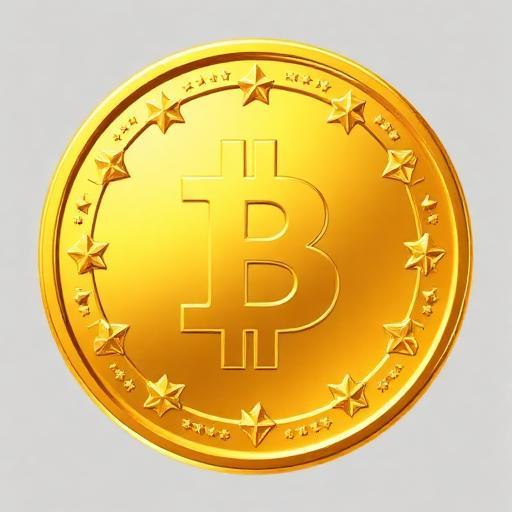
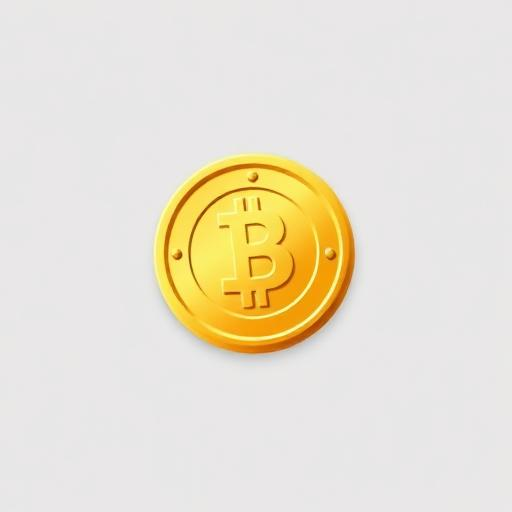
Changes

diff --git a/src/components/CurrencyIcons.tsx b/src/components/CurrencyIcons.tsx
@@ -1,0 +1,79 @@
+import { cn } from "@/lib/utils";
+
+interface IconProps extends React.SVGProps<SVGSVGElement> {
+  className?: string;
+}
+
+export const CoinIcon = ({ className, ...props }: IconProps) => {
+  return (
+    <svg
+      viewBox="0 0 64 64"
+      aria-hidden="true"
+      className={cn("inline-block", className)}
+      {...props}
+    >
+      <defs>
+        <radialGradient id="coinGradient" cx="50%" cy="25%" r="75%">
+          <stop offset="0%" stopColor="hsl(var(--coin-gold-light))" />
+          <stop offset="45%" stopColor="hsl(var(--coin-gold))" />
+          <stop offset="100%" stopColor="hsl(var(--coin-gold))" />
+        </radialGradient>
+      </defs>
+      {/* Outer coin */}
+      <circle cx="32" cy="32" r="28" fill="url(#coinGradient)" />
+      {/* Inner ring */}
+      <circle
+        cx="32"
+        cy="32"
+        r="21"
+        fill="none"
+        stroke="hsl(var(--coin-gold-light))"
+        strokeWidth="2"
+      />
+      {/* Center */}
+      <circle
+        cx="32"
+        cy="32"
+        r="14"
+        fill="hsl(var(--coin-gold-light))"
+        fillOpacity={0.5}
+      />
+      {/* Simple currency mark */}
+      <path
+        d="M30 22h4c3.5 0 6 2.1 6 5.5S37.5 33 34 33h-4v9h-4V22h4Zm0 7h3.5c1.4 0 2.5-.8 2.5-1.9S34.9 25 33.5 25H30v4Z"
+        fill="hsl(var(--coin-gold))"
+      />
+    </svg>
+  );
+};
+
+export const DiamondIcon = ({ className, ...props }: IconProps) => {
+  return (
+    <svg
+      viewBox="0 0 64 64"
+      aria-hidden="true"
+      className={cn("inline-block", className)}
+      {...props}
+    >
+      <defs>
+        <linearGradient id="diamondGradient" x1="0%" y1="0%" x2="100%" y2="100%">
+          <stop offset="0%" stopColor="hsl(var(--diamond-white))" />
+          <stop offset="40%" stopColor="hsl(var(--diamond-blue))" />
+          <stop offset="100%" stopColor="hsl(var(--diamond-blue))" />
+        </linearGradient>
+      </defs>
+      {/* Main diamond shape */}
+      <polygon
+        points="8,24 20,8 44,8 56,24 32,56"
+        fill="url(#diamondGradient)"
+      />
+      {/* Top facets */}
+      <polygon points="20,8 32,24 44,8" fill="hsl(var(--diamond-white))" fillOpacity={0.8} />
+      <polygon points="8,24 24,24 20,8" fill="hsl(var(--diamond-blue))" fillOpacity={0.7} />
+      <polygon points="56,24 44,8 40,24" fill="hsl(var(--diamond-blue))" fillOpacity={0.7} />
+      {/* Bottom facets */}
+      <polygon points="24,24 32,56 8,24" fill="hsl(var(--diamond-blue))" fillOpacity={0.9} />
+      <polygon points="40,24 56,24 32,56" fill="hsl(var(--diamond-blue))" fillOpacity={0.9} />
+    </svg>
+  );
+};

diff --git a/src/pages/Profile.tsx b/src/pages/Profile.tsx
@@ -3,8 +3,7 @@ import { useNavigate } from "react-router-dom";
 import BottomNav from "@/components/BottomNav";
 import { Button } from "@/components/ui/button";
 import { Card } from "@/components/ui/card";
-import coinIcon from "@/assets/coin-icon.png";
-import diamondIcon from "@/assets/diamond-icon.png";
+import { CoinIcon, DiamondIcon } from "@/components/CurrencyIcons";
 
 const Profile = () => {
   const navigate = useNavigate();
@@ -15,8 +14,8 @@ const Profile = () => {
   ];
 
   const stats = [
-    { label: "钻石", value: "2,580", iconSrc: diamondIcon },
-    { label: "金币", value: "1,268", iconSrc: coinIcon },
+    { label: "钻石", value: "2,580", type: "diamond" as const },
+    { label: "金币", value: "1,268", type: "coin" as const },
   ];
 
   return (
@@ -38,7 +37,11 @@ const Profile = () => {
             return (
               <button key={stat.label} className="flex-1 bg-white/10 backdrop-blur-sm rounded-2xl px-4 py-3 text-white">
                 <div className="flex items-center justify-center gap-2 mb-1">
-                  <img src={stat.iconSrc} alt={stat.label} className="w-5 h-5" />
+                  {stat.type === "diamond" ? (
+                    <DiamondIcon className="w-5 h-5" />
+                  ) : (
+                    <CoinIcon className="w-5 h-5" />
+                  )}
                   <div className="text-xl font-bold">{stat.value}</div>
                 </div>
                 <div className="text-xs text-white/80">{stat.label}</div>

diff --git a/src/pages/Recharge.tsx b/src/pages/Recharge.tsx
@@ -6,7 +6,7 @@ import { Card } from "@/components/ui/card";
 import { Input } from "@/components/ui/input";
 import { Label } from "@/components/ui/label";
 import { toast } from "@/hooks/use-toast";
-import diamondIcon from "@/assets/diamond-icon.png";
+import { DiamondIcon } from "@/components/CurrencyIcons";
 
 const Recharge = () => {
   const navigate = useNavigate();
@@ -73,7 +73,7 @@ const Recharge = () => {
           <div className="p-6 text-center">
             <div className="text-sm text-white/80 mb-2">当前钻石</div>
             <div className="flex items-center justify-center gap-2">
-              <img src={diamondIcon} alt="钻石" className="w-6 h-6" />
+              <DiamondIcon className="w-6 h-6" />
               <span className="text-3xl font-bold">268</span>
             </div>
           </div>
@@ -87,7 +87,7 @@ const Recharge = () => {
             充值钻石数量
           </Label>
           <div className="relative mb-4">
-            <img src={diamondIcon} alt="钻石" className="absolute left-4 top-1/2 -translate-y-1/2 w-5 h-5" />
+            <DiamondIcon className="absolute left-4 top-1/2 -translate-y-1/2 w-5 h-5" />
             <Input
               id="credits"
               type="text"

diff --git a/src/pages/Videos.tsx b/src/pages/Videos.tsx
@@ -2,7 +2,7 @@ import { useState, useEffect } from "react";
 import { Heart } from "lucide-react";
 import BottomNav from "@/components/BottomNav";
 import { cn } from "@/lib/utils";
-import coinIcon from "@/assets/coin-icon.png";
+import { CoinIcon } from "@/components/CurrencyIcons";
 
 const Videos = () => {
   const [liked, setLiked] = useState(false);
@@ -105,7 +105,7 @@ const Videos = () => {
             </svg>
             {/* Coin Icon */}
             <div className="absolute inset-0 flex items-center justify-center">
-              <img src={coinIcon} alt="金币" className="w-6 h-6" />
+              <CoinIcon className="w-6 h-6" />
             </div>
           </div>
         </div>
@@ -115,7 +115,7 @@ const Videos = () => {
       {showReward && (
         <div className="absolute top-32 left-1/2 -translate-x-1/2 z-40 animate-fade-in">
           <div className="bg-black/70 backdrop-blur-sm rounded-full px-6 py-3 flex items-center gap-2">
-            <img src={coinIcon} alt="金币" className="w-5 h-5" />
+            <CoinIcon className="w-5 h-5" />
             <span className="text-[hsl(var(--coin-gold))] font-medium">+{earnedCoins}金币</span>
           </div>
         </div>
